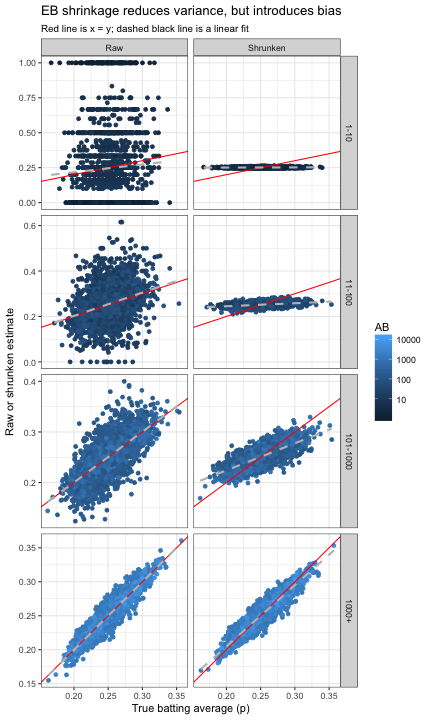
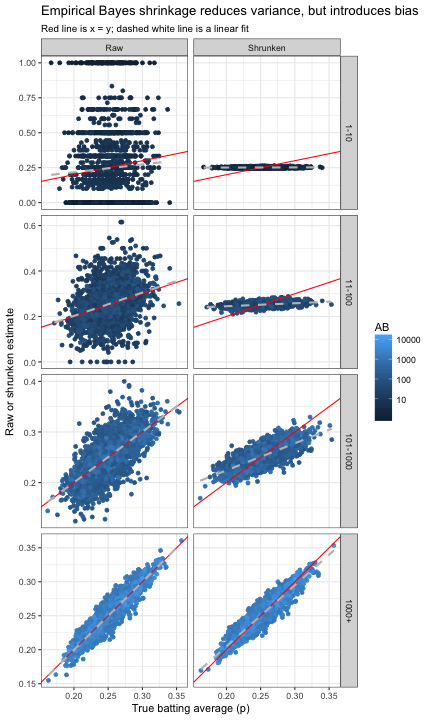
Adjusted some figure titles

Changed region(s): [[0.1204, 0.0, 0.963, 0.0611]]

diff --git a/_posts/2017-01-11-simulation-bayes-baseball.md b/_posts/2017-01-11-simulation-bayes-baseball.md
@@ -188,8 +188,8 @@ career_sim_gathered %>%
   facet_wrap(~ type) +
   labs(x = "True batting average (p)",
        y = "Raw or shrunken batting average",
-       title = "EB shrinkage reduces variance, but causes bias",
-       subtitle = "Red line is x = y; dashed black line is a linear fit")
+       title = "Empirical Bayes shrinkage reduces variance, but causes bias",
+       subtitle = "Red line is x = y; dashed white line is a linear fit")
 {% endhighlight %}
 
 ![center](/figs/2017-01-11-simulation-bayes-baseball/career_sim_gathered_plot-1.png)
